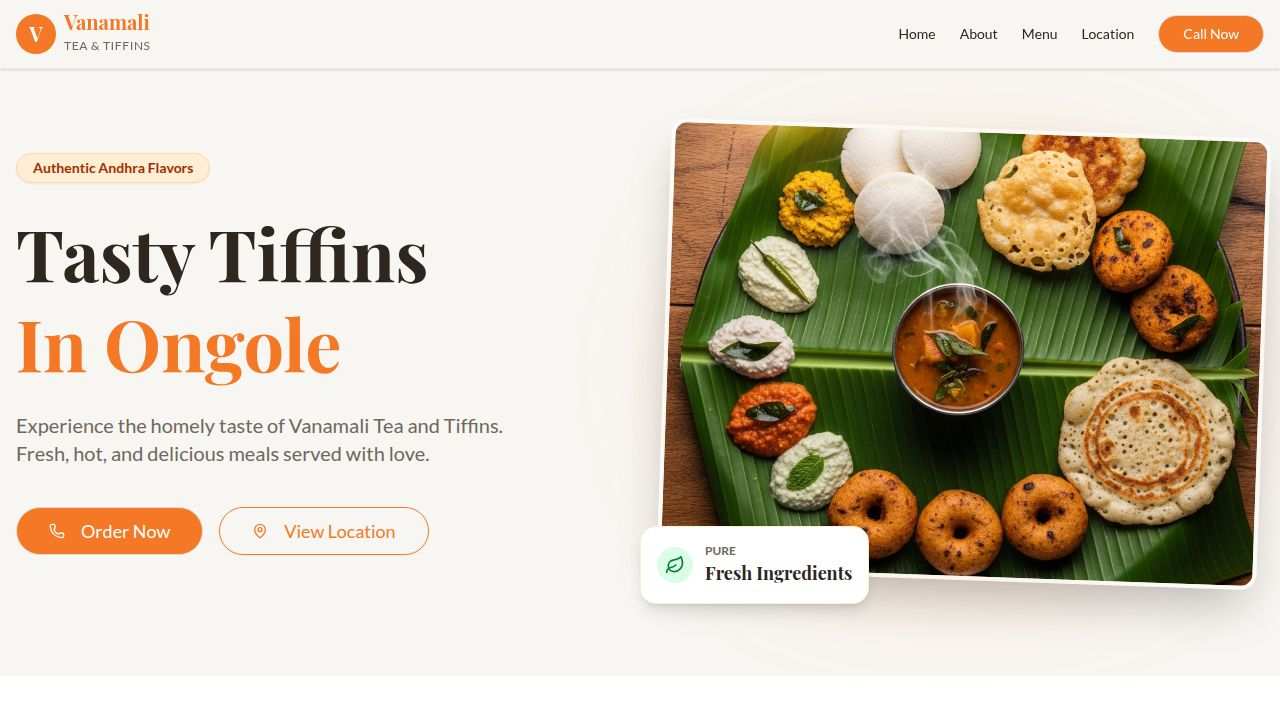
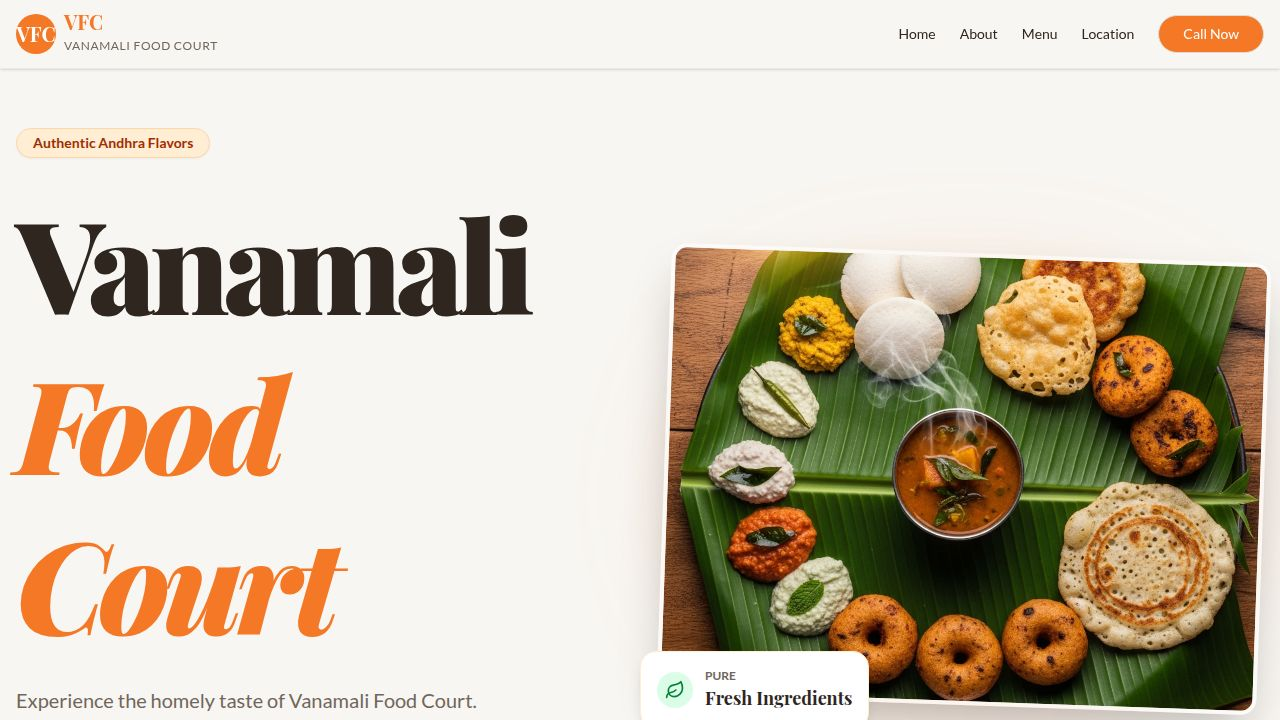
Make opening hours interactive and link them to menu tabs
Adds state for active menu tab and click handlers to opening hours elements.

Replit-Commit-Author: Agent
Replit-Commit-Session-Id: 1f3fc2bc-4188-4c67-9aec-2effaea25f8b
Replit-Commit-Checkpoint-Type: full_checkpoint
Replit-Commit-Event-Id: 8846c86c-283b-42a5-be46-8e1a0049ff3d
Replit-Commit-Screenshot-Url: https://storage.googleapis.com/screenshot-production-us-central1/1b0e2ce3-8388-49f0-af69-629c363dfc4b/1f3fc2bc-4188-4c67-9aec-2effaea25f8b/IlrTQxA
Replit-Helium-Checkpoint-Created: true

diff --git a/client/src/pages/home.tsx b/client/src/pages/home.tsx
@@ -77,12 +77,19 @@ const TypeBadge = ({ type }: { type: string }) => {
 export default function Home() {
   const [isMobileMenuOpen, setIsMobileMenuOpen] = useState(false);
 
+  const [activeTab, setActiveTab] = useState("tiffins");
+
   const scrollToSection = (id: string) => {
     const element = document.getElementById(id);
     if (element) {
       element.scrollIntoView({ behavior: "smooth" });
       setIsMobileMenuOpen(false);
     }
+  };
+
+  const handleTimingClick = (tabId: string) => {
+    setActiveTab(tabId);
+    scrollToSection("menu");
   };
 
   return (
@@ -156,7 +163,7 @@ export default function Home() {
               <span className="text-primary italic">Food Court</span>
             </h1>
             <p className="text-lg md:text-xl text-muted-foreground max-w-lg mx-auto md:mx-0">
-              Experience the homely taste of Vanamali Tea and Tiffins. Fresh, hot, and delicious meals served with love.
+              Experience the homely taste of Vanamali Food Court. Fresh, hot, and delicious meals served with love.
             </p>
             <div className="flex flex-col sm:flex-row gap-4 justify-center md:justify-start pt-4">
               <Button size="lg" className="bg-primary hover:bg-primary/90 text-white rounded-full text-lg px-8 h-12" onClick={() => window.open("tel:+918247697490")}>
@@ -255,25 +262,34 @@ export default function Home() {
                   </div>
                   
                   <div className="space-y-6">
-                    <div className="flex justify-between items-start pb-4 border-b border-orange-200/50">
+                    <div 
+                      className="flex justify-between items-start pb-4 border-b border-orange-200/50 cursor-pointer hover:bg-white/50 transition-colors p-2 rounded-lg group"
+                      onClick={() => handleTimingClick("tiffins")}
+                    >
                       <div>
-                        <p className="font-bold text-lg text-orange-900">Morning Tiffins</p>
+                        <p className="font-bold text-lg text-orange-900 group-hover:text-primary transition-colors">Morning Tiffins</p>
                         <p className="text-orange-700 text-sm">Idly, Dosa, Vada & more</p>
                       </div>
                       <Badge variant="secondary" className="bg-white text-orange-800 font-bold text-md px-3 py-1">6 AM - 11 AM</Badge>
                     </div>
 
-                    <div className="flex justify-between items-start pb-4 border-b border-orange-200/50">
+                    <div 
+                      className="flex justify-between items-start pb-4 border-b border-orange-200/50 cursor-pointer hover:bg-white/50 transition-colors p-2 rounded-lg group"
+                      onClick={() => handleTimingClick("meals")}
+                    >
                       <div>
-                        <p className="font-bold text-lg text-orange-900">Meals & Curries</p>
+                        <p className="font-bold text-lg text-orange-900 group-hover:text-primary transition-colors">Meals & Curries</p>
                         <p className="text-orange-700 text-sm">Biryani, Rice, Chicken</p>
                       </div>
                       <Badge variant="secondary" className="bg-white text-orange-800 font-bold text-md px-3 py-1">8 AM - 5 PM</Badge>
                     </div>
 
-                    <div className="flex justify-between items-start">
+                    <div 
+                      className="flex justify-between items-start cursor-pointer hover:bg-white/50 transition-colors p-2 rounded-lg group"
+                      onClick={() => handleTimingClick("chinese")}
+                    >
                       <div>
-                        <p className="font-bold text-lg text-orange-900">Noodles & Rice</p>
+                        <p className="font-bold text-lg text-orange-900 group-hover:text-primary transition-colors">Noodles & Rice</p>
                         <p className="text-orange-700 text-sm">Fried Rice, Manchurian</p>
                       </div>
                       <Badge variant="secondary" className="bg-white text-orange-800 font-bold text-md px-3 py-1">12 PM - 11 PM</Badge>
@@ -296,7 +312,7 @@ export default function Home() {
             <p className="text-muted-foreground">From crispy dosas to spicy curries, we have something for every craving.</p>
           </div>
 
-          <Tabs defaultValue="tiffins" className="w-full max-w-4xl mx-auto">
+          <Tabs value={activeTab} onValueChange={setActiveTab} className="w-full max-w-4xl mx-auto">
             <TabsList className="grid w-full grid-cols-3 mb-8 h-12 bg-orange-100/50 p-1">
               <TabsTrigger value="tiffins" className="text-md data-[state=active]:bg-white data-[state=active]:text-primary data-[state=active]:shadow-sm">Morning Tiffins</TabsTrigger>
               <TabsTrigger value="meals" className="text-md data-[state=active]:bg-white data-[state=active]:text-primary data-[state=active]:shadow-sm">Meals & Curries</TabsTrigger>
